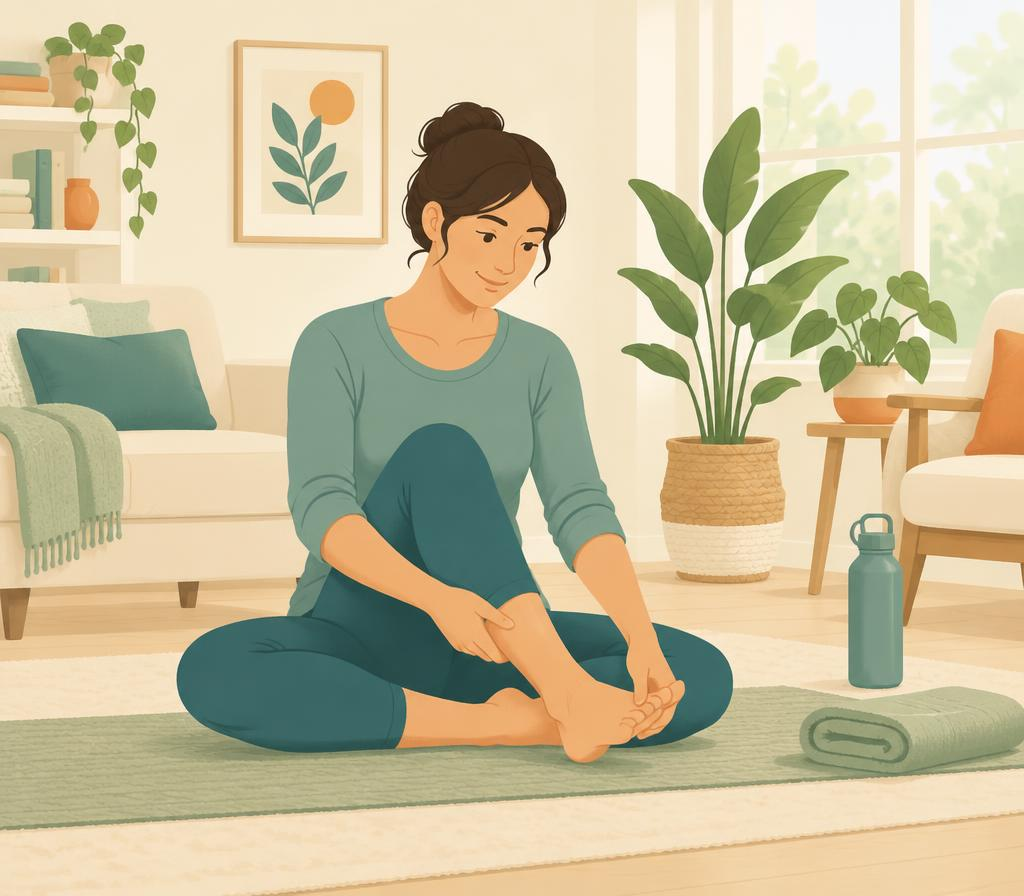
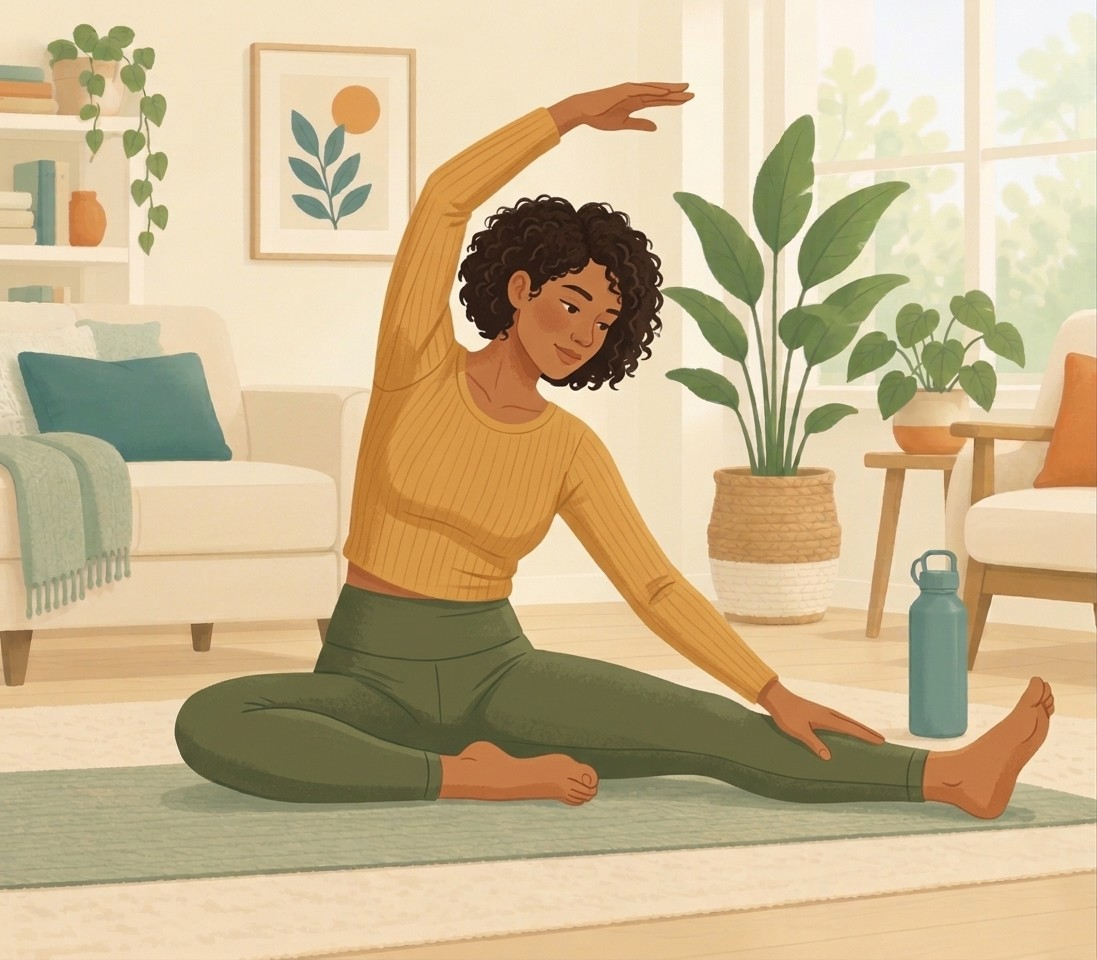
Päivitetty README.md -tiedosto ja lisätty fysioterapeutin kuva. Muutettu komponenttien ulkoasua ja parannettu responsiivisuutta fysioterapeutin sivuilla.

diff --git a/src/pages/physio/PhysioClientPage.tsx b/src/pages/physio/PhysioClientPage.tsx
@@ -31,7 +31,7 @@ export function PhysioClientPage({ clientId }: { clientId: string }) {
     );
   }
 
-  return (
+    return (
     <div className="space-y-5">
       <BackLink />
       <div>
@@ -47,26 +47,47 @@ export function PhysioClientPage({ clientId }: { clientId: string }) {
         </p>
       </div>
 
-      <PhysioSituationSummaryCard client={client} />
-      <ProgressCard client={client} />
+      {/* Responsiivinen 2-sarakkeinen grid: 1 sarake mobiilissa/tabletissa, 2 saraketta xl-koossa (≥1280px) */}
+      <div className="grid grid-cols-1 items-start gap-5 xl:grid-cols-2">
+        {/* VASEN SARAKE */}
+        <div className="space-y-5">
+          <PhysioSituationSummaryCard client={client} />
 
-      <Fold title="Harjoitusohjelma">
-        <PhysioProgramEditor client={client} bare />
-      </Fold>
+          <Fold title="Harjoitusohjelma">
+            <PhysioProgramEditor client={client} bare />
+          </Fold>
 
-      <Fold title="Alkukartoitus">
-        {client.intake && !intakeComplete(client) && <p className="mb-4 font-semibold text-primary">Alkukartoitus on kesken · kameratestit puuttuvat</p>}
-        <BaselineSummary client={client} />
-        {client.intake ? (
-          <IntakeSummary audience="physio" answers={answersFromIntake(client.intake)} completedAt={client.intake.completedAt} />
-        ) : (
-          <p className="text-muted-foreground">
-            {client.intakeDraft ? "Asiakas on aloittanut alkukartoituksen, mutta ei ole vielä tallentanut sitä." : "Asiakas ei ole vielä tehnyt alkukartoitusta."}
-          </p>
-        )}
-      </Fold>
+          <Fold title="Alkukartoitus">
+            {client.intake && !intakeComplete(client) && (
+              <p className="mb-4 font-semibold text-primary">
+                Alkukartoitus on kesken · kameratestit puuttuvat
+              </p>
+            )}
+            <BaselineSummary client={client} />
+            {client.intake ? (
+              <IntakeSummary
+                audience="physio"
+                answers={answersFromIntake(client.intake)}
+                completedAt={client.intake.completedAt}
+              />
+            ) : (
+              <p className="text-muted-foreground">
+                {client.intakeDraft
+                  ? "Asiakas on aloittanut alkukartoituksen, mutta ei ole vielä tallentanut sitä."
+                  : "Asiakas ei ole vielä tehnyt alkukartoitusta."}
+              </p>
+            )}
+          </Fold>
+        </div>
+
+        {/* OIKEA SARAKE */}
+        <div className="space-y-5">
+          <ProgressCard client={client} />
+        </div>
+      </div>
     </div>
   );
+
 }
 
 function Fold({ title, children }: { title: string; children: React.ReactNode }) {

diff --git a/src/pages/physio/PhysioClientsPage.tsx b/src/pages/physio/PhysioClientsPage.tsx
@@ -32,14 +32,14 @@ export function PhysioClientsPage() {
               aria-label={`Avaa asiakkaan ${c.name} tiedot`}
             >
               <SoftCard className="h-full">
-                <div className="flex items-start justify-between gap-3">
+                <div className="flex items-center justify-between gap-3">
                   <div>
                     <h2 className="text-lg font-semibold">{c.name}</h2>
                     <p className="text-sm text-muted-foreground">
                       {c.intake ? `${bodyAreaLabel(c.intake.bodyArea)} (${c.intake.side})` : c.intakeDraft ? "Alkukartoitus kesken" : "Alkukartoitus tekemättä"}
                     </p>
                   </div>
-                  <ChevronRight className="h-5 w-5 text-muted-foreground" />
+                  <ChevronRight className="h-7 w-7 shrink-0 self-center text-muted-foreground" />
                 </div>
                 <p className="mt-3 text-sm">
                   Kuntoutuksen tila:{" "}
@@ -48,7 +48,7 @@ export function PhysioClientsPage() {
                   </span>
                 </p>
                 {programName && <p className="mt-1 text-sm text-muted-foreground">{programName}</p>}
-                <p className="mt-3 text-sm font-semibold text-primary">Avaa tiedot →</p>
+                
               </SoftCard>
             </Link>
           );

diff --git a/src/features/summary/SummaryCards.tsx b/src/features/summary/SummaryCards.tsx
@@ -41,7 +41,7 @@ export function PhysioSituationSummaryCard({ client }: { client: Client }) {
           <div>
             <h3 className="border-l-4 border-primary pl-2 text-xs font-bold uppercase tracking-wider text-primary">Yhteydenotto</h3>
             <p className="mt-1.5">Viimeisin viesti asiakkaalta ({message.date}):</p>
-            <blockquote className="mt-1 border-l-4 border-primary pl-3 italic text-muted-foreground">”{message.text}”</blockquote>
+            <blockquote className="mt-1 text-sm italic text-muted-foreground">”{message.text}”</blockquote>
           </div>
         )}
       </div>

diff --git a/src/layouts/RoleLayout.tsx b/src/layouts/RoleLayout.tsx
@@ -89,7 +89,7 @@ export function RoleLayout({ role, items, roleLabel }: { role: Role; items: NavI
           <Logo />
           <span className="text-xs font-medium text-muted-foreground">{roleLabel}</span>
         </header>
-        <main className="mx-auto w-full max-w-5xl flex-1 px-4 pb-28 pt-6 md:px-10 md:pb-12 md:pt-10">
+        <main className="mx-auto w-full max-w-5xl xl:max-w-7xl flex-1 px-4 pb-28 pt-6 md:px-10 md:pb-12 md:pt-10">
           <Outlet />
         </main>
       </div>

diff --git a/README.md b/README.md
@@ -1,24 +1,147 @@
-# OmaTahti
 
-Create a new project called OmaTahti. Do not build the application yet. I will provide the implementation instructions next.
+# OmaTahti – Asynchronous Remote Rehabilitation
 
-This project was built with [Lovable](https://lovable.dev).
+OmaTahti on asynkronisen etäkuntoutuksen sovellusprototyyppi, jonka tavoitteena on mahdollistaa kuntoutuminen joustavasti omaan tahtiin.
 
-## Build with Lovable
+Sovelluksen ideana on tarjota vaihtoehto perinteisille reaaliaikaisille etävastaanotoille. Kuntoutuja voi harjoitella itsenäisesti silloin, kun se sopii omaan arkeen, ja fysioterapeutti voi seurata kuntoutumisen etenemistä sekä antaa palautetta ilman, että jokainen kohtaaminen edellyttää samanaikaista videoyhteyttä.
 
-Continue developing this project in the [Lovable editor](https://lovable.dev/projects/bae56256-8529-4ebd-bb25-273f5faace47).
+Projektin ensimmäinen demoversio on toteutettu [Lovable](https://lovable.dev/)-kehitysalustalla. Sovelluksen lähdekoodi on yhdistetty GitHubiin, mikä mahdollistaa projektin jatkokehityksen myös paikallisessa kehitysympäristössä.
 
-- **Ship faster**: describe what you want to build and Lovable handles the code.
-- **Stay in sync**: every change made in Lovable is committed straight to this repository.
-- **Full ownership**: this code is yours. Push to `main` on GitHub and your changes sync back into Lovable, ready for your next prompt.
+## Projektin tavoitteet
 
-## Development
+OmaTahdin tavoitteena on:
 
-Prefer working locally? You need Node.js and npm — [install with nvm](https://github.com/nvm-sh/nvm#installing-and-updating).
+- Mahdollistaa kuntoutuminen ajasta ja paikasta riippumatta.
+- Helpottaa kuntoutujan ja fysioterapeutin välistä yhteydenpitoa.
+- Tukea kuntoutumisen etenemisen seurantaa.
+- Hyödyntää tekoälyä kuntoutujan lähtötilanteen arvioinnissa ja kuntoutumisen seurannassa.
+- Tukea kuntoutujan motivaatiota pelillistämisen avulla.
+- Tehostaa fysioterapeuttien ajankäyttöä ja parantaa kuntoutuspalveluiden saavutettavuutta.
 
-```sh
-git clone <this-repository-url>
-cd <repository-name>
-npm i
-npm run dev
+## Sovelluksen toimintaperiaate
+
+OmaTahdin kuntoutuspolku rakentuu seuraavista vaiheista:
+
+1. **Alkukartoitus:** Kuntoutuja vastaa vammaa ja toimintakykyä koskeviin kysymyksiin.
+2. **Lähtötilanteen arviointi:** Liikkeiden arviointia hyödynnetään kuntoutujan lähtötason hahmottamisessa.
+3. **Harjoitusohjelman muodostaminen:** Alkukartoituksen perusteella muodostetaan kuntoutujalle kohdennettu harjoitusohjelma.
+4. **Itsenäinen harjoittelu:** Kuntoutuja suorittaa harjoituksia ohjevideoiden ja muiden ohjeiden avulla.
+5. **Seuranta ja palaute:** Kuntoutumisen etenemistä seurataan, ja kuntoutuja voi olla yhteydessä fysioterapeuttiin.
+
+Tavoitteena on, että kuntoutuja saa tukea koko kuntoutusprosessin ajan, mutta voi edetä omaan tahtiinsa.
+
+## Teknologiat
+
+Projektissa käytetään seuraavia teknologioita ja työkaluja:
+
+| Teknologia | Käyttötarkoitus |
+|---|---|
+| React | Käyttöliittymän rakentaminen |
+| TypeScript | Tyypitetty JavaScript |
+| TanStack Start | Sovelluksen rakenne ja reititys |
+| Vite | Kehityspalvelin ja sovelluksen build |
+| Tailwind CSS | Käyttöliittymän tyylittely |
+| MediaPipe Tasks Vision | Kamerapohjainen liikkeiden analysointi |
+| Bun | JavaScript-ajonaikainen ympäristö ja paketinhallinta |
+| GitHub | Lähdekoodin versionhallinta |
+| Lovable | Ensimmäisen demoversion toteutus |
+
+## Projektin rakenne ja kehitysympäristö
+
+Sovellus on toteutettu React- ja TypeScript-pohjaisena projektina. TanStack Start huolehtii sovelluksen rakenteesta ja reitityksestä, ja Vite toimii kehitysympäristönä.
+
+Projektissa käytetään Lovablen ylläpitämää `@lovable.dev/vite-tanstack-config`-konfiguraatiota. Se sisältää valmiiksi tarvittavat Vite- ja TanStack-asetukset.
+
+Riippuvuuksien hallintaan käytetään Bunia ja projektin `bun.lock`-lukitustiedostoa.
+
+## Paikallinen käyttöönotto
+
+### Vaatimukset
+
+Paikalliseen kehittämiseen tarvitaan:
+
+- [Bun](https://bun.sh/)
+- [Git](https://git-scm.com/)
+- Koodieditori, esimerkiksi [Visual Studio Code](https://code.visualstudio.com/)
+
+Tarkista Bun-asennus komennolla:
+
+```bash
+bun --version
 ```
+
+### 1. Kloonaa projekti
+
+Avaa terminaali ja suorita:
+
+```bash
+git clone https://github.com/JansQ-75/OmaTahti.git
+```
+
+Siirry projektikansioon:
+
+```bash
+cd OmaTahti
+```
+
+### 2. Asenna riippuvuudet
+
+Asenna projektin tarvitsemat paketit:
+
+```bash
+bun install
+```
+
+Bun hyödyntää projektin `bun.lock`-lukitustiedostoa riippuvuuksien versioiden yhdenmukaistamiseen.
+
+### 3. Käynnistä sovellus paikallisesti
+
+Käynnistä kehityspalvelin:
+
+```bash
+bun run dev
+```
+
+Terminaali ilmoittaa paikallisen osoitteen, josta sovellus on avattavissa selaimessa.
+
+Avaa terminaalissa ilmoitettu osoite selaimessa.
+
+### 4. Sovelluksen testaaminen puhelimella
+
+Sovellusta voidaan testata myös puhelimen selaimessa paikallisen lähiverkon kautta. Erillistä Wi-Fi-verkkoa ei tarvita, sillä puhelimen mobiilitukiasemaa voidaan käyttää verkkoyhteyden muodostamiseen.
+
+1. Ota puhelimen mobiilitukiasema käyttöön.
+2. Yhdistä tietokone puhelimen jakamaan verkkoon.
+3. Käynnistä kehityspalvelin sallimalla yhteydet myös lähiverkosta:
+
+```bash
+bun run dev -- --host 0.0.0.0
+```
+
+4. Selvitä tietokoneen paikallinen IP-osoite. Windowsissa osoitteen saa komennolla:
+
+```bash
+ipconfig
+```
+
+5. Etsi aktiivisen verkkoyhteyden IPv4-osoite.
+6. Avaa puhelimen selaimessa seuraava osoite:
+
+```text
+http://TIETOKONEEN-IP:PORTTI
+```
+
+Korvaa osoite tietokoneen omalla IPv4-osoitteella ja käytä terminaalissa ilmoitettua porttia.
+
+**Huomio kameran käytöstä:** Puhelimen selaimet edellyttävät kameran käyttöön yleensä suojattua HTTPS-yhteyttä. Paikallisessa lähiverkossa käytettävä HTTP-osoite ei välttämättä mahdollista kameran käyttöä. Kameratoimintojen testaamiseen voidaan tarvita erillinen HTTPS-yhteys esimerkiksi tunnelointipalvelun avulla.
+
+## Projektin tila
+
+OmaTahti on Demola-projektissa kehitettävä sovellusprototyyppi. Projektin tavoitteena on havainnollistaa asynkronisen etäkuntoutuksen mahdollisuuksia sekä kuntoutujan että fysioterapeutin näkökulmasta.
+
+Prototyyppiä kehitetään ja testataan projektin edetessä. Kaikki suunnitellut ominaisuudet eivät välttämättä ole vielä käytettävissä tai valmiita tuotantokäyttöön.
+
+## Linkit
+
+- [GitHub-repositorio](https://github.com/JansQ-75/OmaTahti)
+- [Lovable](https://lovable.dev/)
